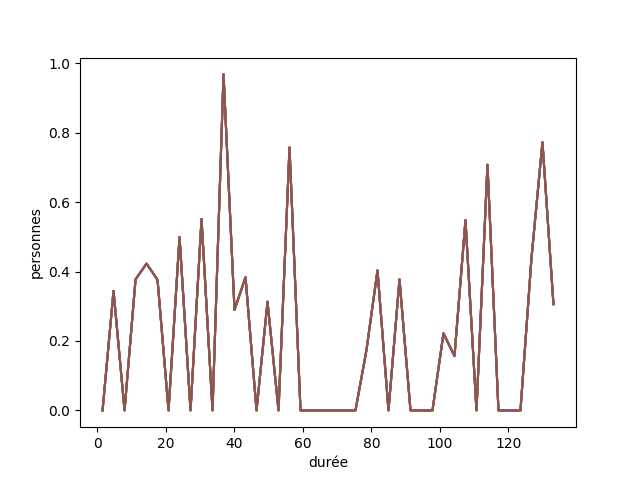
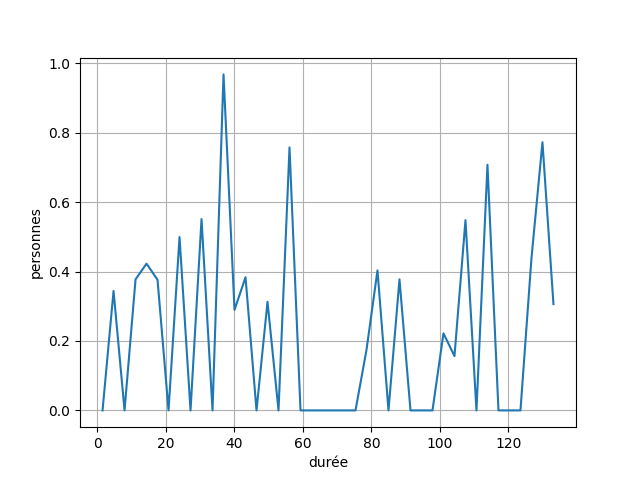
partie stats améliorée ¨

diff --git a/RecoSite/templates/stats.html b/RecoSite/templates/stats.html
@@ -16,7 +16,12 @@
       <div id="rcorners1">
         <h1>Statistiques de la vidéo</h1>
         {% if result %}
+          <h3>Débit moyen</h3>
           <img id="analyse" src="static/analyse.png">
+          <h3>Nombre de personnes totales</h3>
+          {{ nb_total }}
+          <h3>Durée totale de la vidéo en secondes</h3>
+          {{ duree }}
         {% endif %}
       </div>
     </main>

diff --git a/RecoSite/static/style.css b/RecoSite/static/style.css
@@ -46,6 +46,7 @@ b {
 }
 #analyse {
     width: 500px;
+    margin: 20px;
 }
 #revenir :hover {
     color: rgb(88, 0, 88);
@@ -115,6 +116,7 @@ b {
   background: black;
   padding : 0;
   margin : 0;
+  margin-bottom: 20px;
   text-align: center;
   position: relative;
 }

diff --git a/RecoSite/analyse.py b/RecoSite/analyse.py
@@ -18,6 +18,11 @@ def debitmoyen(Nb, d):
         D.append(Nb[i] / d)
     return D
 
+def debit(NB):
+    Dn=[]
+    for i in NB:
+        Dn+=[i]
+    return Dn
 
 def Temps(Nb, d, debut):
     T = [debut + d / 2]
@@ -27,12 +32,16 @@ def Temps(Nb, d, debut):
         T.append(t)
     return T
 
+def giveTime(Nb, d, debut):
+    sec = Temps(Nb, d, debut)
+    return sec[-1]
+
 def affichage(Nb, d, debut):
-    D = debitmoyen(Nb, d)
-    T = Temps(Nb, d, debut)
-    plt.plot(T, D)
-    plt.xlabel('durée')
-    plt.ylabel('personnes')
-    plt.grid()
-    plt.savefig('static/analyse.png')
-    return
+     D = debitmoyen(Nb, d)
+     T = Temps(Nb, d, debut)
+     plt.plot(T, D)
+     plt.xlabel('durée')
+     plt.ylabel('personnes')
+     plt.grid()
+     plt.savefig('static/analyse.png')
+     return

diff --git a/RecoSite/main.py b/RecoSite/main.py
@@ -47,7 +47,16 @@ def traitement():
 
     result = open("static/analyse.png", "r")
 
-    return render_template("stats.html", result=result)
+    nb_total = 0
+
+    for i in range(len(nb_perso)):
+        nb_total += nb_perso[i]
+
+    nb_total = int(nb_total)
+
+    duree = int(giveTime(nb_perso_debit, framerate, 0))
+
+    return render_template("stats.html", result=result, duree=duree, nb_total=nb_total)
 
 
 if __name__ == '__main__':
